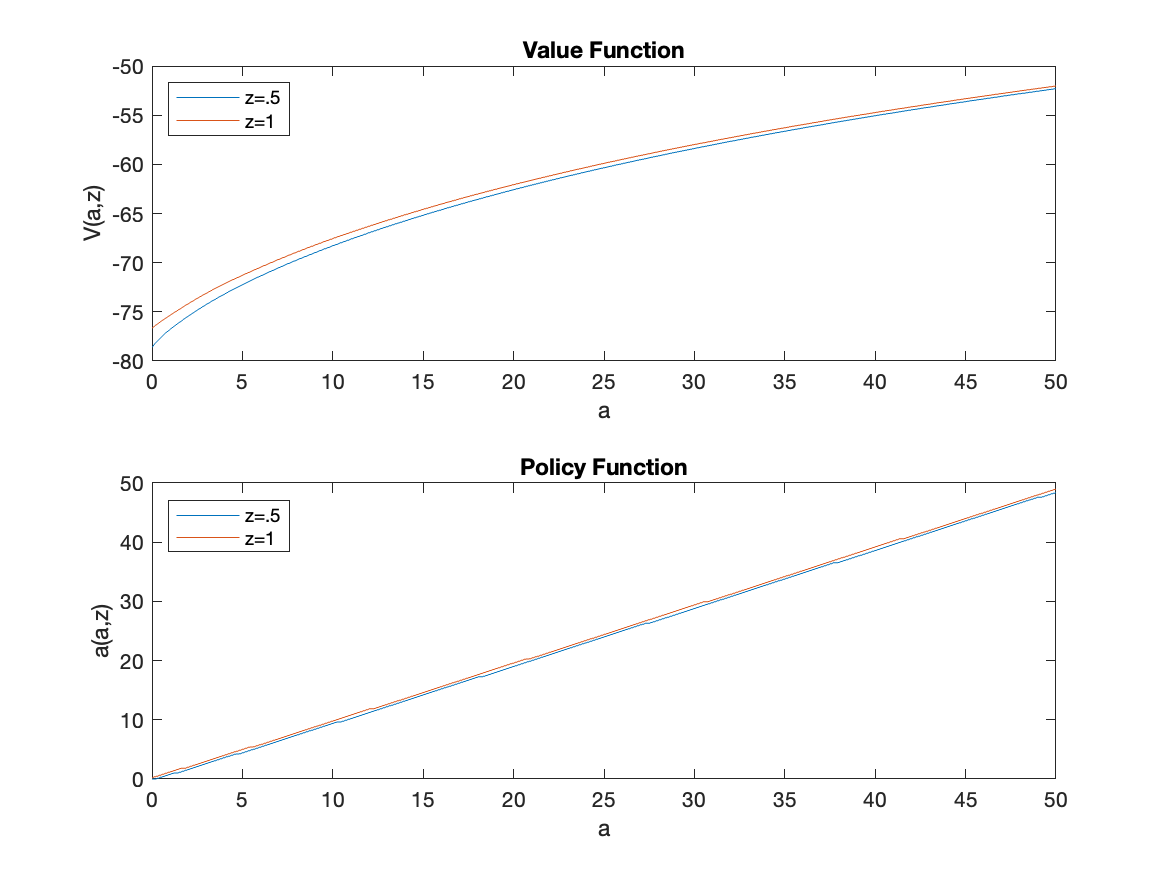
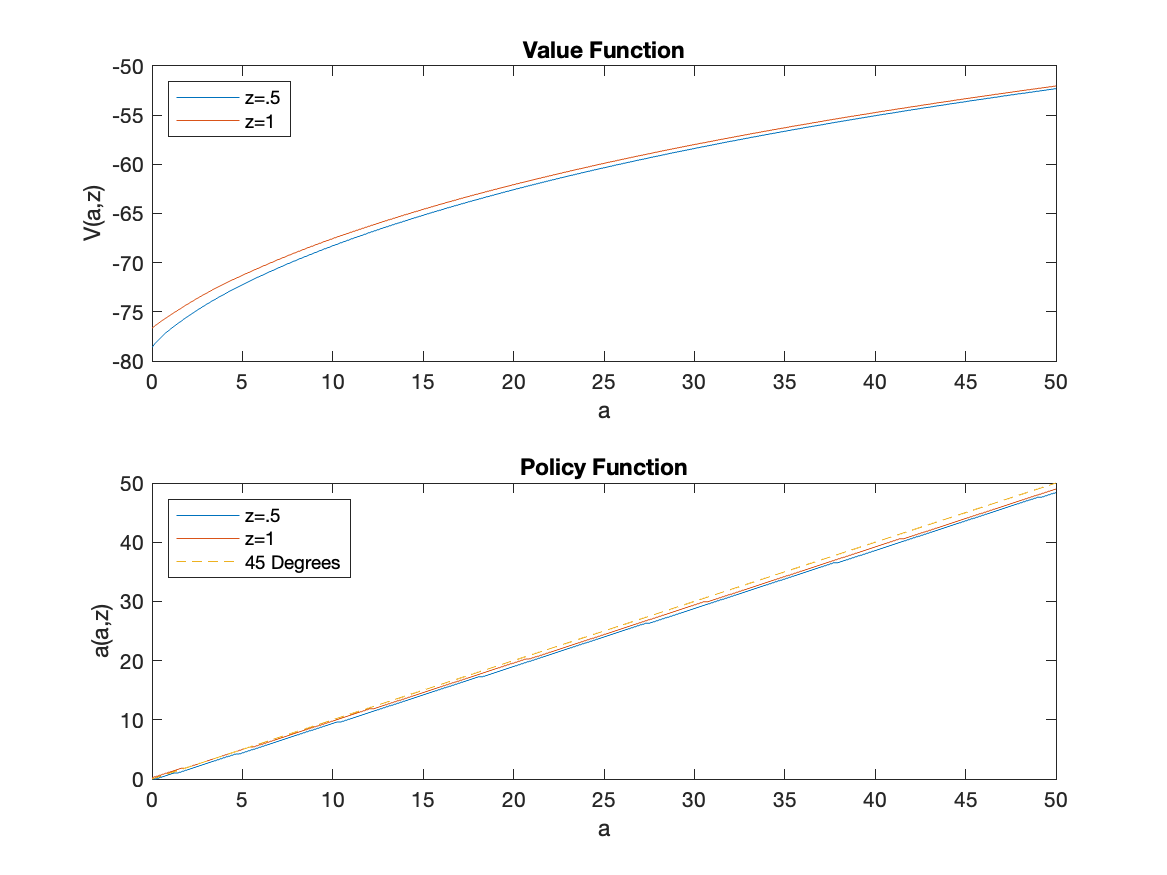
quick edits

Changed region(s): [[0.2159, 0.6171, 0.3085, 0.6789], [0.1542, 0.864, 0.1851, 0.8949], [0.0925, 0.216, 0.1234, 0.2469]]

diff --git a/ECON 509/Assignment 4/bellman_iteration.m b/ECON 509/Assignment 4/bellman_iteration.m
@@ -71,9 +71,17 @@ xlabel('a')
 ylabel('V(a,z)')
 title('Value Function')
 nexttile
-plot(a_grid, policy(1,:),a_grid,policy(2,:))
-legend({'z=.5', 'z=1'}, 'Location', 'northwest')
+plot(a_grid, policy(1,:),a_grid,policy(2,:),a_grid,a_grid, '--')
+legend({'z=.5', 'z=1', '45 Degrees'}, 'Location', 'northwest')
 xlabel('a')
 ylabel('a(a,z)')
 title('Policy Function');
 saveas(gcf,'policy_and_value_functions.png');
+
+% write functions
+
+value_df = array2table(V_new','RowNames',string(a_grid),'VariableNames',string(z_grid));
+writetable(value_df, 'value_df.xlsx')
+
+policy_df = array2table(policy','RowNames',string(a_grid),'VariableNames',string(z_grid));
+writetable(policy_df, 'policy_df.xlsx')
